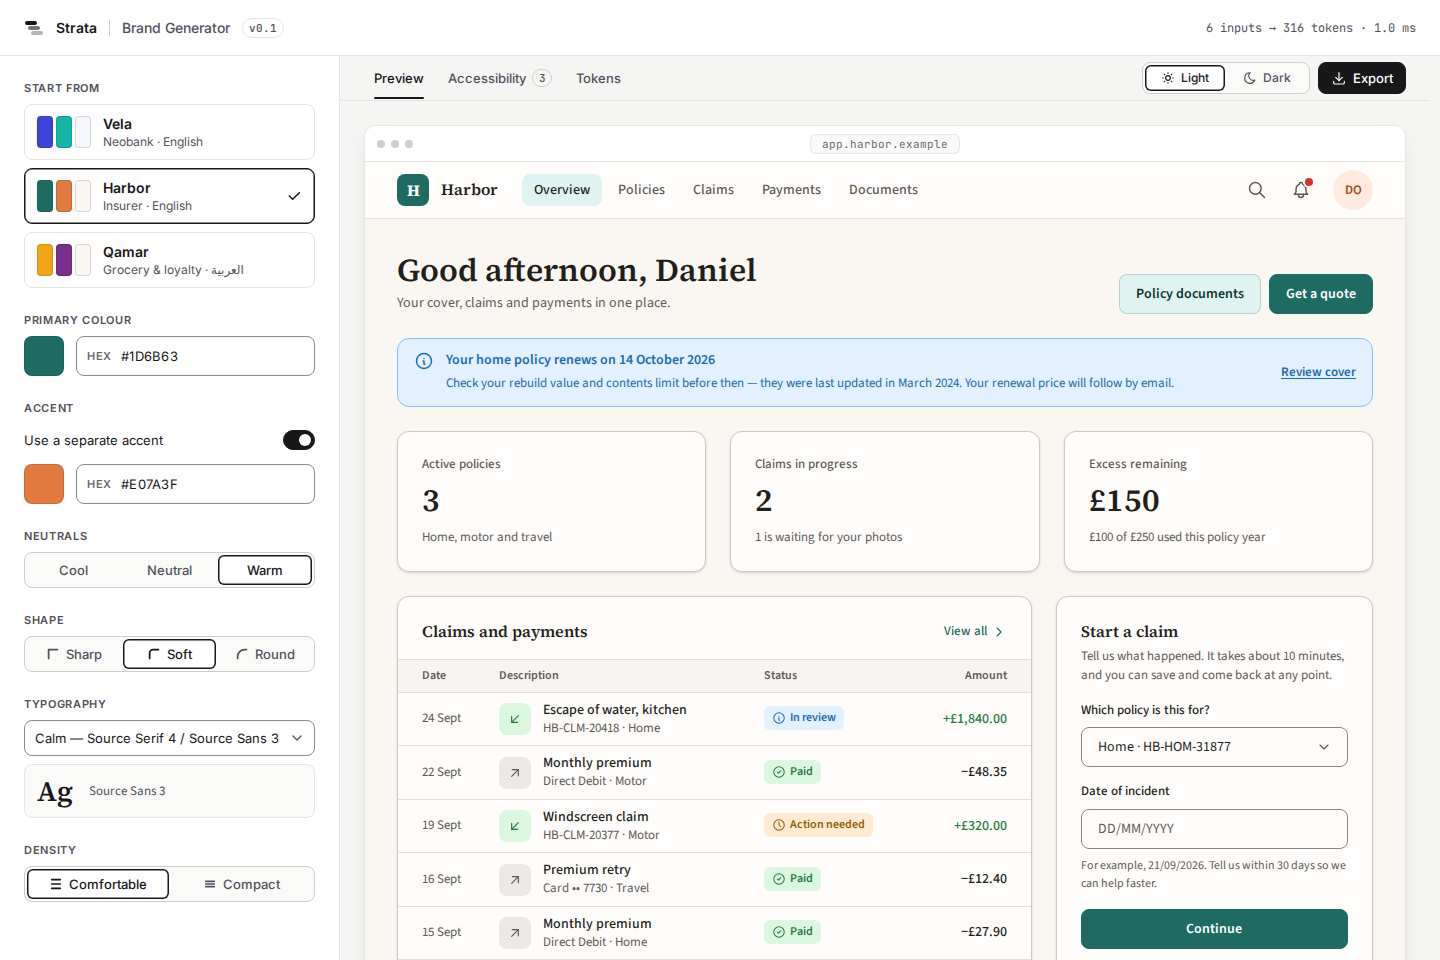
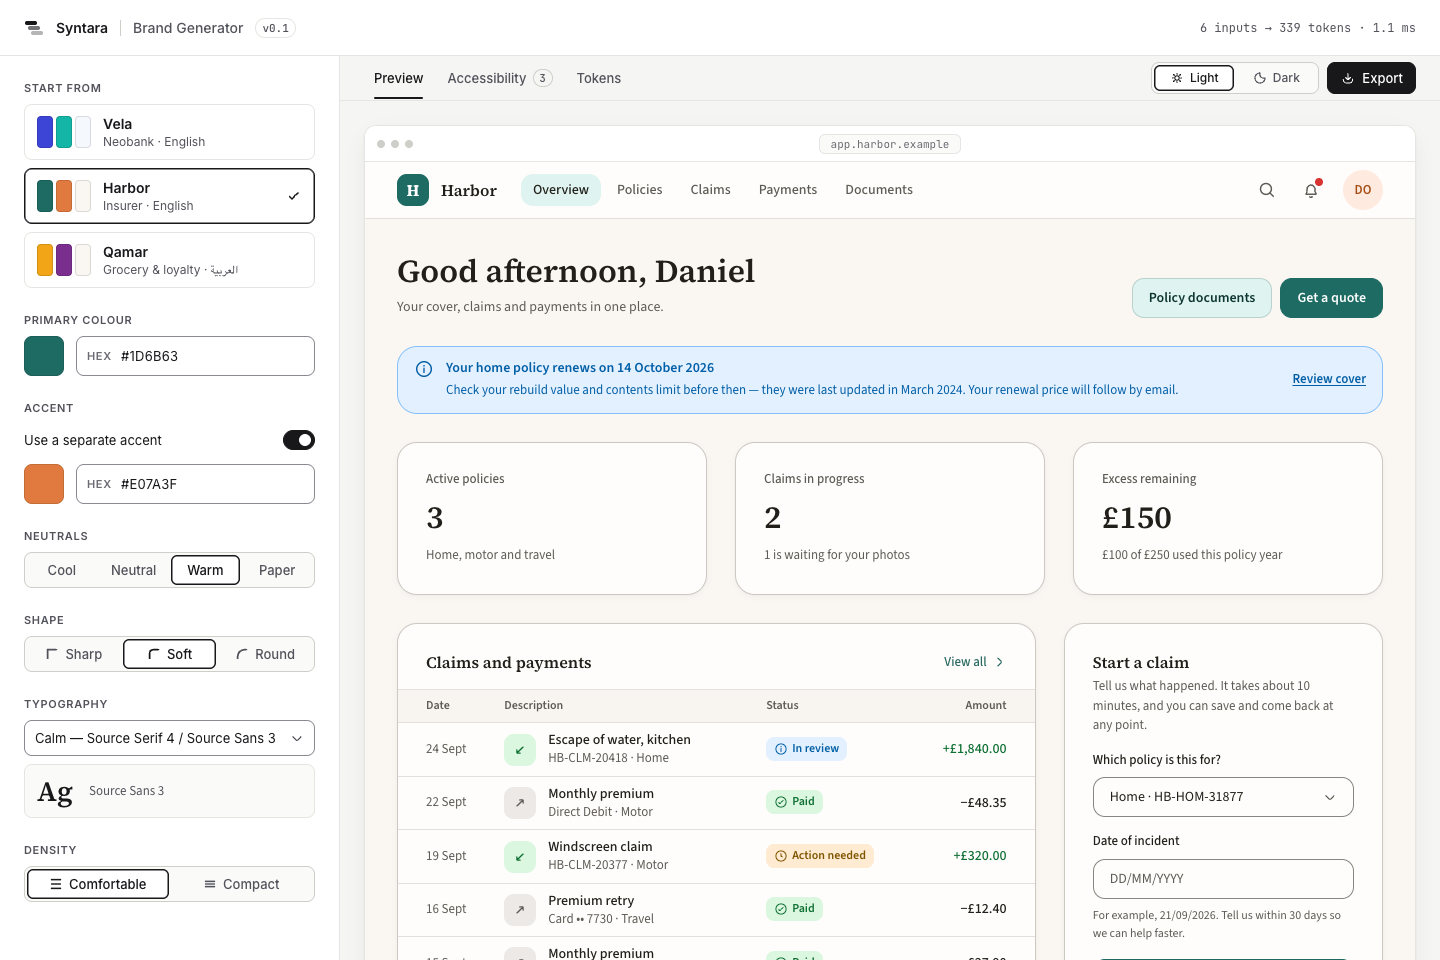
docs: ADR-037 for going public, and screenshots that show Syntara
ADR-037 records Anuj's decision to publish the whole repository MIT and
list the site on 21st.dev as a template, against a narrower
recommendation, with the irreversibility stated in Consequences. It is
037 and not the 027 planned earlier: 027 is the tooltip ADR, and the
wrong number came from CLAUDE.md's status line, which is three phases
stale and is now logged as needing a fix.

The images the README shows were from before the rename. The nine Phase
1 shots said "Strata | Brand Generator v0.1"; regenerating them also
picked up real drift, 316 to 339 tokens and a fourth neutrals option.
Three docs-site pages are reshot into docs/screenshots/v0.5/ rather than
over v0.2/, since the site is on v0.5 and the old folder is the v0.2
record. The README hero now points at v0.5/home.png.

The old hero advertised three things that are no longer true: the name
Strata, "v0.2 - 41 components" against the README's 53, and a shadcn
install path removed by the ADR-011 revision. The old component page
still showed the Registry nav entry and Registry item button, also
removed by that revision.

Verified by opening the images, not by exit codes. Commands and results
are in the log entry, including a first screenshots run that failed on a
missing node_modules and reported exit 0 because it was piped to tail.

diff --git a/docs/log.md b/docs/log.md
@@ -26,14 +26,26 @@ prose-only scrub. No code changed.
 - **`GOVERNANCE.md` §5 is deliberately unchanged.** Saying out loud that this is one maintainer, and marking
   what is and is not enforced by a script, is the honest claim the rest of that file rests on. Removing it to
   look bigger would be the dishonest edit.
+- **[ADR-037](adr/037-public-repo-and-21st-template.md)** records the decision. Numbered 037, not the 027 this
+  session first planned: 027 is the tooltip ADR, and the wrong number came from `CLAUDE.md`'s status line, which
+  still lists the open ADRs as 024–026 and is three phases out of date. **`CLAUDE.md`'s status section is stale
+  and was not corrected here.**
+- **The nine Phase 1 screenshots are regenerated** (`pnpm screenshots`). They said "Strata | Brand Generator
+  v0.1"; they now say Syntara. The regeneration also caught real drift the old images predated: the token count
+  moved 316 → 339 and the neutrals row gained a fourth option, "Paper".
+- **Three docs-site screenshots are reshot into a new `docs/screenshots/v0.5/`** — home, themes and the Button
+  component page — and `README.md`'s hero image points at `v0.5/home.png`. A new folder rather than overwriting
+  `v0.2/`, because the site is on v0.5 (the changelog's top heading) and regenerating inside a folder named for
+  v0.2 would make the name a lie. The stale `v0.2/` images are left as the v0.2 record; nothing references them
+  any more except this log.
 
 **Decided**
 - **Publish the whole repo open source, MIT, and list the site as a 21st.dev template — Anuj.** Claude laid out
   three options and recommended the narrow one: publish only the docs-site shell with a neutral tenant and
   placeholder copy, keeping the five real brands and the written content out of it. Anuj chose the whole repo
   for reach, having been told once that public + MIT cannot be recalled, that 21st rehosts a pinned commit, and
-  that anyone may then ship the portfolio site commercially keeping only the copyright line. **Needs ADR-027;
-  not written yet.**
+  that anyone may then ship the portfolio site commercially keeping only the copyright line.
+  **[ADR-037](adr/037-public-repo-and-21st-template.md).**
 - **Soften `BRIEF.md` §0 rather than leave it or move it to an untracked file — Claude recommended, Anuj
   accepted.** Leaving it keeps a searchable job-hunt notice; cutting it entirely loses the explanation for why
   the standards sit where they do.
@@ -105,14 +117,38 @@ occurrence in this checkout.
 - `curl -s -o /dev/null -w '%{http_code}' https://syntara.pages.dev` → **200**, so the "Open preview" link a
   listing needs already exists.
 
+Screenshot runs. The first `pnpm screenshots` **failed** — `vite: command not found`, because a fresh worktree
+has no `node_modules` — and the failure was hidden by piping the command through `tail`, so the shell reported
+exit 0 over "✗ Generator build failed (exit 1)". Every run below captures the real exit code.
+
+| Run | Result |
+|---|---|
+| `pnpm install` in the worktree | 599 packages, **done in 5.7s** |
+| `pnpm screenshots` | **9 screenshots**, axe on 6 preview pages, **0 violations**, real exit **0** |
+| `pnpm --filter @syntara/docs build` | exit **0**, `apps/docs/.next/BUILD_ID` = `cdDwFGlplCAbXnamqi967` |
+| `serve out -l 4317`, then `scripts/served-build.mjs http://localhost:4317` | exit **0** — the served build is this one. `lsof -nP -iTCP:4317 -sTCP:LISTEN` confirmed pid 3235, the server this session started |
+| `scripts/shoot.mjs` ×3 at 1440×900 | home, themes, component-page saved, exit 0 each |
+
+The images were then opened and read, not trusted from the exit codes. `phase-1/vela-light.png` now reads
+"Syntara | Brand Generator v0.1". `v0.5/home.png` reads "Syntara", the pill reads **v0.5 · 53 components**
+against the old "v0.2 · 41 components", and the install line is "The packages are on npm" where it used to be
+`npx shadcn@latest add @strata/button`. `v0.5/component-page.png` no longer shows the "Registry" nav entry or
+the "Registry item" button — both removed by the ADR-011 revision, both still present in the old image — and
+installs with `pnpm add @syntara/react @syntara/tokens`.
+
+The docs build was run, not `next dev`, so the gotcha where `next dev` rewrites `apps/docs/AGENTS.md`,
+`apps/docs/CLAUDE.md` and `next-env.d.ts` did not apply; `git status` after the run showed only the intended
+files.
+
 **Next**
-- **ADR-027** recording the decision above. It has been made and acted on in this entry but is not yet written
-  down, which is the gap this project's conventions exist to prevent.
-- **Regenerate the stale screenshots** (`pnpm screenshots`) so the README stops advertising "Strata", 41
-  components and a shadcn install path. Before any listing.
 - **Prove a clean clone runs.** `pnpm install && pnpm docs` from a fresh clone in a temp directory, not from a
   working copy with a warm store and an existing `node_modules`. This is the last real engineering risk before
-  the repo is public.
+  the repo is public. Partly evidenced already: this worktree started with no `node_modules`, and `pnpm install`
+  then a full docs build both succeeded from it. A worktree shares the pnpm store with the main checkout, so it
+  is not the same test as a cold clone on another machine.
+- **`CLAUDE.md`'s status section is three phases stale.** It lists the open ADRs as 024–026 when the repo holds
+  037, which is what produced the wrong ADR number in this session. Worth fixing before the repo is public,
+  since `CLAUDE.md` is committed on purpose and a reader will take it as current.
 - **Then, and only then,** `gh repo edit --visibility public`. Irreversible.
 - **Open question, worth answering before that irreversible step:** 21st's open-source templates all appear to
   be single runnable apps, and whether a pnpm monorepo is accepted is unknown. If it is not, `apps/docs` has to

diff --git a/docs/adr/037-public-repo-and-21st-template.md b/docs/adr/037-public-repo-and-21st-template.md
@@ -1,0 +1,34 @@
+# ADR-037: Publish the repository open source and list the site as a 21st.dev template
+
+- **Status:** Accepted — decided by Anuj (Claude recommended a narrower option; see Alternatives)
+- **Date:** 2026-10-01
+- **Principles:** none of BRIEF §3 bear on this. It is a distribution and licensing decision, not a system-design one.
+
+## Context
+
+- The repository is private (`gh repo view --json isPrivate` → `true`), MIT-licensed, 0 stars, 65 commits.
+- 21st.dev hosts components, templates and shadcn themes. A whole website is listed as a **template**; there is no site directory. Its **Documentation** category holds 11 templates out of roughly 700 — the thinnest shelf on the site.
+- Open-source templates there are rehosted by 21st **pinned to one commit, licence intact**, and installed with `npx @21st-dev/cli@latest template add <slug>`. That requires a public repo.
+- A listing needs a live preview. `curl -s -o /dev/null -w '%{http_code}' https://syntara.pages.dev` → **200**.
+- A pre-publication audit (logged 2026-10-01) found no credentials in any of the 65 commits, no `.env` files, no personal contact details, and no real company passed off as a tenant.
+
+## Decision
+
+- **Make the repository public under its existing MIT licence**, whole, including `apps/docs`, all six tenants and their copy.
+- **Submit it to 21st.dev as an open-source template** in Documentation, with Portfolio, Developer Tool, Next.js and React as secondary tags, and `https://syntara.pages.dev` as the preview.
+- **Publish the monorepo as-is.** Nothing is extracted: a template whose entry point is `pnpm install && pnpm docs` keeps `apps/docs/lib/repo.ts` reading `tenants/*` and `packages/react/meta/*` from the repo root, as it does today.
+- **Prerequisites before the repository is flipped:** regenerate the stale screenshots, and prove a clean clone builds and serves.
+- **The shadcn-directory route stays closed.** That crawl indexes *served* registries, and ADR-011's revision keeps `pnpm registry` output gitignored and unserved. Nothing here reopens it; a separate ADR would.
+
+## Alternatives considered
+
+- **Publish only the docs-site shell** — one neutral tenant, placeholder copy, the five real brands and the written content withheld. Claude recommended this: it reaches the same empty Documentation shelf, advertises `@syntara/*` on every install, and keeps the artefact being published distinct from the artefact used in interviews. Anuj chose reach over that separation.
+- **Sell it as a paid template from the private repo** (the going rate there is $19–$99, zip upload). Rejected: smallest audience, and no track record as a seller.
+- **Do nothing.** Rejected: the differentiation research for Phase 6 is still outstanding, but the Documentation shelf is open now and costs little to take.
+
+## Consequences
+
+- **Good:** the whole system becomes inspectable — the engine, the contrast solver, the governance record and the ADRs, not just the rendered site. The listing links back on every install.
+- **Bad:** irreversible. Once public, assume it is cloned and cached beyond reach. MIT lets anyone ship this site commercially keeping only the copyright line, including a site indistinguishable from the portfolio it was built to be. Anuj was told this before deciding.
+- **Bad:** the repo now carries a public audience's expectations — issues, questions, and a `GOVERNANCE.md` that describes a team process run by one person.
+- **Revisit when:** 21st rejects a monorepo template (then `apps/docs` must be extracted, and `lib/repo.ts`'s `REPO_ROOT = cwd/../..` is the chokepoint), or the differentiation research concludes that design-engineer registries are not the audience worth reaching.

diff --git a/README.md b/README.md
@@ -4,7 +4,7 @@ A multi-brand design system that humans and AI agents build with.
 
 53 React Aria components, its own icon set, a server-driven UI schema and a docs site with live previews, all themed by an engine that turns six brand inputs into a light and dark theme passing WCAG 2.2 AA.
 
-![Syntara docs home](docs/screenshots/v0.2/home.png)
+![Syntara docs home](docs/screenshots/v0.5/home.png)
 
 | Vela · neobank | Harbor · insurer | Qamar · grocery, Arabic RTL |
 |---|---|---|
